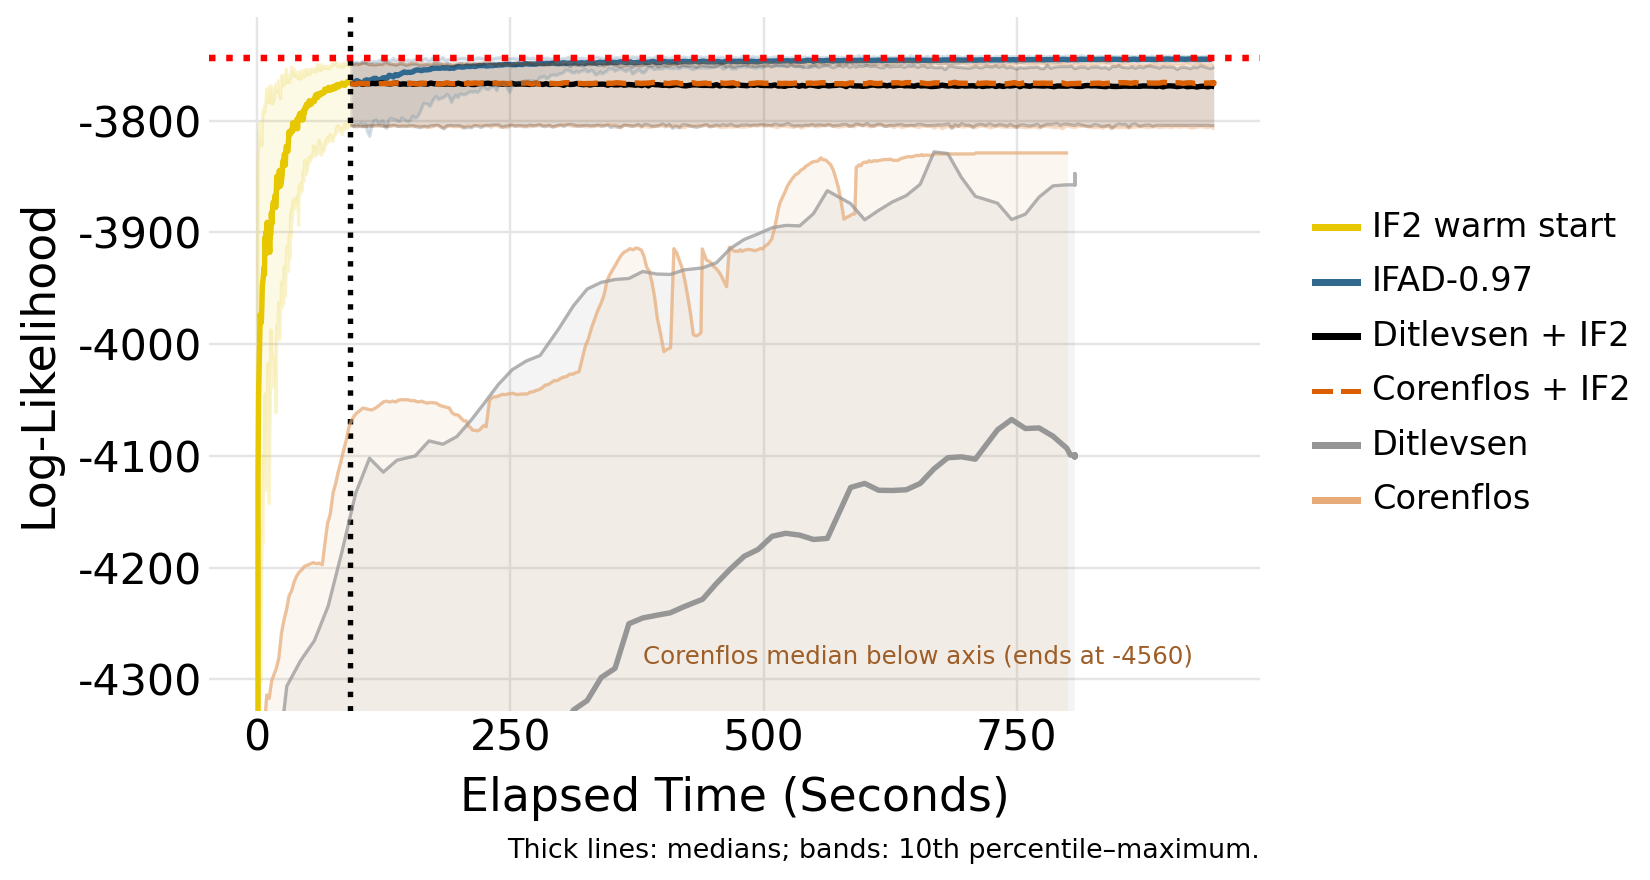
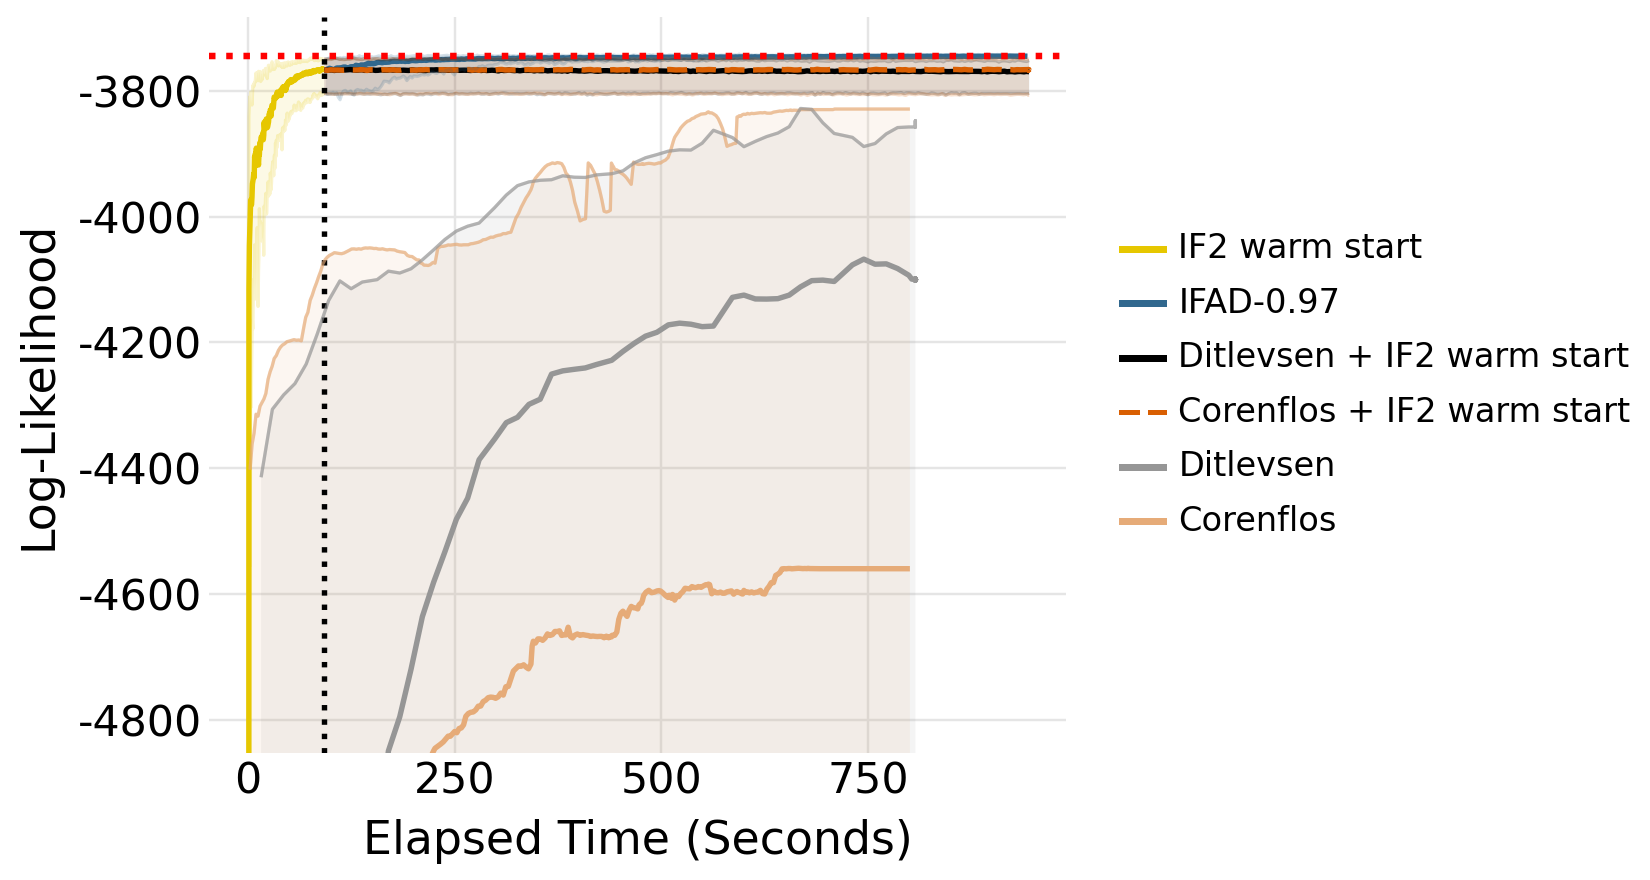
clean up figures and warm-start labels

diff --git a/corenflos/corenflos/warm_plots.py b/corenflos/corenflos/warm_plots.py
@@ -12,7 +12,6 @@ import numpy as np
 import pandas as pd
 from plotnine import (
     aes,
-    annotate,
     coord_cartesian,
     coord_flip,
     element_blank,
@@ -48,7 +47,7 @@ OFFSET = 92.16042757034302
 TOTAL = 942.8173823356628
 # The continuation medians and envelopes span approximately -3814 to -3741.
 TRACE_LIMITS = (-3820.0, -3735.0)
-OVERVIEW_LIMITS = (-4300.0, -3735.0)
+OVERVIEW_LIMITS = (-4800.0, -3735.0)
 METHODS = [
     "Corenflos",
     "Corenflos + IF2",
@@ -65,6 +64,10 @@ COLORS = {
     "IF2 checkpoint": "#e6c700",
     "IF2 warm start": "#e6c700",
     "IFAD-0.97": "#31688e",
+}
+DISPLAY_LABELS = {
+    "Corenflos + IF2": "Corenflos + IF2 warm start",
+    "Ditlevsen + IF2": "Ditlevsen + IF2 warm start",
 }
 
 
@@ -142,7 +145,7 @@ def plot_likelihood(frame: pd.DataFrame, output: Path) -> None:
         + coord_flip()
         + scale_x_continuous(
             breaks=list(positions.values()),
-            labels=METHODS,
+            labels=[DISPLAY_LABELS.get(method, method) for method in METHODS],
             limits=(-0.5, len(METHODS) - 0.5),
         )
         + scale_y_continuous(breaks=list(range(-4300, -3699, 100)))
@@ -220,8 +223,16 @@ def plot_parameters(frame: pd.DataFrame, output: Path) -> None:
         + facet_wrap("quantity_label", scales="free", ncol=3)
         + scale_x_continuous(labels=lambda values: [f"{value:g}" for value in values])
         + scale_y_continuous(labels=lambda values: [f"{value:g}" for value in values])
-        + scale_color_manual(values=COLORS, breaks=METHODS)
-        + scale_fill_manual(values=COLORS, breaks=METHODS)
+        + scale_color_manual(
+            values=COLORS,
+            breaks=METHODS,
+            labels=[DISPLAY_LABELS.get(method, method) for method in METHODS],
+        )
+        + scale_fill_manual(
+            values=COLORS,
+            breaks=METHODS,
+            labels=[DISPLAY_LABELS.get(method, method) for method in METHODS],
+        )
         + theme_minimal()
         + theme(
             axis_text_x=element_text(size=10, color="black"),
@@ -301,6 +312,7 @@ def _optimization_plot(frame: pd.DataFrame, order: list[str]) -> ggplot:
     frame["source"] = pd.Categorical(frame["source"], categories=order, ordered=True)
     linetypes = {source: "solid" for source in order}
     linetypes["Corenflos + IF2"] = "dashed"
+    labels = [DISPLAY_LABELS.get(source, source) for source in order]
     return (
         ggplot(frame, aes(x="elapsed_seconds", y="median", color="source"))
         + geom_ribbon(
@@ -319,9 +331,9 @@ def _optimization_plot(frame: pd.DataFrame, order: list[str]) -> ggplot:
             linetype="dotted",
             size=1.2,
         )
-        + scale_color_manual(values=COLORS, breaks=order)
-        + scale_fill_manual(values=COLORS, breaks=order)
-        + scale_linetype_manual(values=linetypes, breaks=order)
+        + scale_color_manual(values=COLORS, breaks=order, labels=labels)
+        + scale_fill_manual(values=COLORS, breaks=order, labels=labels)
+        + scale_linetype_manual(values=linetypes, breaks=order, labels=labels)
         + labs(x="Elapsed Time (Seconds)", y="Log-Likelihood")
         + theme_minimal()
         + theme(
@@ -360,22 +372,9 @@ def plot_optimization(frame: pd.DataFrame, output: Path) -> None:
             size=0.6,
             show_legend=False,
         )
-        + scale_y_continuous(breaks=list(range(-4300, -3799, 100)))
+        + scale_y_continuous(breaks=list(range(-4800, -3799, 200)))
         + coord_cartesian(xlim=(0, TOTAL), ylim=OVERVIEW_LIMITS)
-        + labs(caption="Thick lines: medians; bands: 10th percentile–maximum.")
     )
-    # Do not clamp an off-scale median to the axis and imply a false plateau.
-    cold = frame.loc[frame["source"].eq("Corenflos")].sort_values("elapsed_seconds")
-    if not cold.empty and cold["median"].max() < OVERVIEW_LIMITS[0]:
-        overview += annotate(
-            "text",
-            x=TOTAL * 0.98,
-            y=OVERVIEW_LIMITS[0] + 20,
-            label=f"Corenflos median below axis (ends at {cold.iloc[-1]['median']:.0f})",
-            ha="right",
-            size=8,
-            color="#9e5e27",
-        )
     overview.save(
         output / "optimization_if2warm_elapsed_full_r20.png",
         width=7.5,

diff --git a/corenflos/tests/test_warm_plots.py b/corenflos/tests/test_warm_plots.py
@@ -82,7 +82,7 @@ def test_optimization_views_keep_six_sources_and_requested_limits(
     focused = saved["optimization_if2warm_elapsed_r20.png"]
     overview = saved["optimization_if2warm_elapsed_full_r20.png"]
     assert focused.coordinates.limits.y == warm_plots.TRACE_LIMITS
-    assert overview.coordinates.limits.y == (-4300.0, -3735.0)
+    assert overview.coordinates.limits.y == (-4800.0, -3735.0)
     assert set(focused.data["source"]) == {
         "IF2 warm start", "IFAD-0.97", "Corenflos + IF2", "Ditlevsen + IF2",
     }
@@ -90,6 +90,41 @@ def test_optimization_views_keep_six_sources_and_requested_limits(
     assert overview.data["source"].notna().all()
     corenflos = overview.data.loc[overview.data["source"].eq("Corenflos")]
     assert corenflos["median"].max() == -4560.0  # Never clamp to the visible axis.
-    assert overview.layers[-1].geom.aes_params["label"] == (
-        "Corenflos median below axis (ends at -4560)"
+    assert corenflos["median"].between(*overview.coordinates.limits.y).all()
+    for plot in (focused, overview):
+        assert plot.labels.caption is None
+        for aesthetic in ("color", "fill", "linetype"):
+            scale = plot.scales.get_scales(aesthetic)
+            assert scale.labels == [
+                warm_plots.DISPLAY_LABELS.get(source, source) for source in scale.breaks
+            ]
+        assert all(
+            type(layer.geom).__name__ not in ("geom_text", "geom_label")
+            for layer in plot.layers
+        )
+
+
+def test_comparison_figures_label_if2_warm_starts(monkeypatch, tmp_path):
+    saved = {}
+    monkeypatch.setattr(
+        ggplot, "save", lambda self, filename, **kwargs: saved.update({filename.name: self})
     )
+    warm_plots.plot_likelihood(
+        pd.DataFrame(
+            {"Model": warm_plots.METHODS, "logLik": [-4000.0] * len(warm_plots.METHODS)}
+        ),
+        tmp_path,
+    )
+    parameters = pd.DataFrame(
+        {parameter: [1.0] * len(warm_plots.METHODS) for parameter in warm_plots.PARAMETERS}
+    )
+    parameters["source"] = warm_plots.METHODS
+    warm_plots.plot_parameters(parameters, tmp_path)
+    labels = [
+        warm_plots.DISPLAY_LABELS.get(source, source) for source in warm_plots.METHODS
+    ]
+    likelihood = saved["likelihood_if2warm_comparison_r20.png"]
+    assert likelihood.scales.get_scales("x").labels == labels
+    parameters = saved["parameter_if2warm_comparison_r20.png"]
+    for aesthetic in ("color", "fill"):
+        assert parameters.scales.get_scales(aesthetic).labels == labels

diff --git a/HANDOFF.md b/HANDOFF.md
@@ -1,5 +1,23 @@
 # Handoff
 
+## October 1, 2026: remove plot prose and show the Corenflos median
+
+- User preference: no explanatory captions or prose annotations on these
+  figures. Keep axis labels and method legends; do not replace a missing
+  curve with text about it.
+- Removed the overview caption and in-panel off-scale annotation. Extended
+  the overview's lower limit to -4800 so the standalone Corenflos median
+  near -4560 is visible alongside the other five methods. The separate
+  continuation zoom's limits are unchanged. Initial cold-start values below -4800
+  remain outside this overview's displayed range.
+- Updated regression tests to check the visible Corenflos median, six methods,
+  no caption, and no text/label annotation layers.
+- Display labels now read "Ditlevsen + IF2 warm start" and "Corenflos + IF2
+  warm start" throughout the optimization, likelihood, and parameter figures.
+  Internal result keys and experiment data are unchanged.
+- Regenerated and visually checked all four PNGs. All 55 Corenflos/Ditlevsen
+  tests and the completion audit pass; `git diff --check` is clean.
+
 ## October 1, 2026: include standalone runs in the overview
 
 - The full optimization figure now includes standalone Corenflos and
